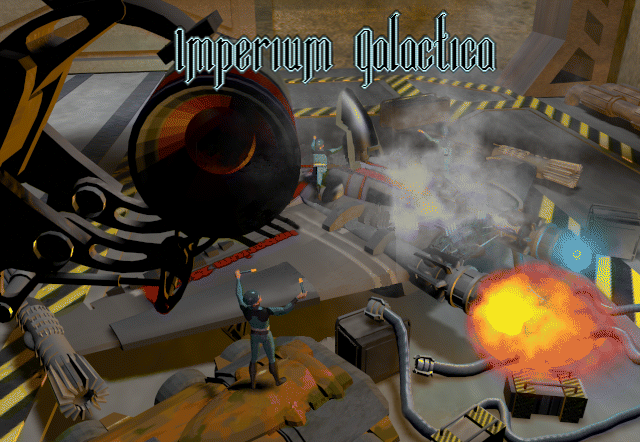
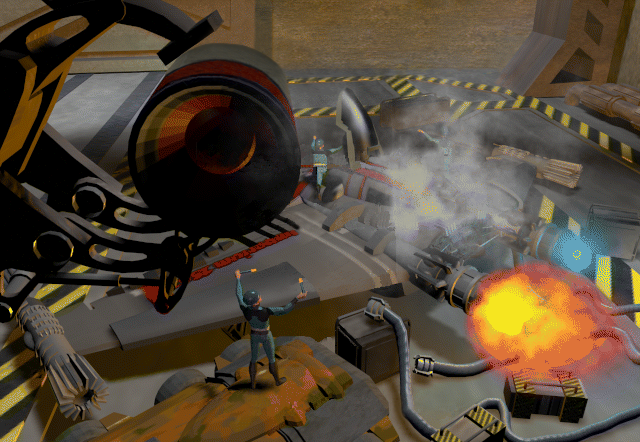
Release 0.94.903

Changed region(s): [[0.25, 0.0, 0.8438, 0.2059]]

diff --git a/trunk/open-ig/src/hu/openig/screen/items/LoadSaveScreen.java b/trunk/open-ig/src/hu/openig/screen/items/LoadSaveScreen.java
@@ -1176,7 +1176,6 @@ public class LoadSaveScreen extends ScreenBase {
 
 	@Override
 	public void onResize() {
-		// XXX
 		scaleResize(base);
 		// tabs
 		
@@ -1324,7 +1323,6 @@ public class LoadSaveScreen extends ScreenBase {
 	@Override
 	public void draw(Graphics2D g2) {
 		RenderTools.darkenAround(base, width, height, g2, 0.5f, true);
-		// XXX
 		AffineTransform save0 = scaleDraw(g2, base);
 		
 		if (settingsMode != SettingsPage.LOAD_SAVE) {
@@ -1397,9 +1395,8 @@ public class LoadSaveScreen extends ScreenBase {
 	}
 	@Override
 	public boolean mouse(UIMouse e) {
-		// XXX
 		scaleMouse(e, base);
-		if (e.has(Type.DOWN) && !e.within(base.x, base.y, base.width, base.height)) {
+		if (e.has(Type.DOWN) && !e.within(base.x, base.y, base.width, base.height) && !confirmText.visible()) {
 			doBack();
 		}
 		return super.mouse(e);
@@ -1483,7 +1480,7 @@ public class LoadSaveScreen extends ScreenBase {
 					newSave.difficulty = world().difficulty;
 					newSave.money = player().money;
 					newSave.gameDate = world().time.getTime();
-					newSave.saveName = "-- New --"; // FIXME labels
+					newSave.saveName = LoadSaveScreen.this.get("settings.new_save"); // FIXME labels
 					
 					flist.add(0, newSave);
 					list.selected = newSave;
@@ -1625,8 +1622,7 @@ public class LoadSaveScreen extends ScreenBase {
 	}
 	/** Go back to main menu. */
 	void doMainMenu() {
-		// FIXME labels
-		showConfirm("Do you really want to quit?", new Action0() {
+		showConfirm(get("settings.confirm_quit"), new Action0() {
 			@Override
 			public void invoke() {
 				commons.control().hideOptions();
@@ -1677,8 +1673,7 @@ public class LoadSaveScreen extends ScreenBase {
 			commons.control().save(saveText, SaveMode.MANUAL);
 			doBack();
 		} else {
-			// FIXME labels
-			showConfirm("Overwrite save?", new Action0() {
+			showConfirm(get("settings.confirm_overwrite"), new Action0() {
 				@Override
 				public void invoke() {
 					fi.file.delete();

diff --git a/trunk/open-ig/src/hu/openig/screen/items/MainScreen.java b/trunk/open-ig/src/hu/openig/screen/items/MainScreen.java
@@ -233,13 +233,14 @@ public class MainScreen extends ScreenBase {
 		}
 
 		g2.drawImage(background, 0, 0, null);
-	
-		int w0 = commons.text().getTextWidth(14, "Open");
-		g2.setColor(new Color(0, 0, 0, 128));
-		g2.fillRect(118, 18, w0 + 4, 20);
-		commons.text().paintTo(g2, 121, 21, 14, 0xFF000000, "Open");
-		commons.text().paintTo(g2, 120, 20, 14, 0xFFFFFF00, "Open");
-		
+
+		RenderTools.setInterpolation(g2, true);
+		BufferedImage tli = commons.background().openigTextLogo;
+		int tliw = tli.getWidth() * 3 / 4;
+		int tlih = tli.getHeight() * 3 / 4;
+		int tlw = (w - tliw) / 2;
+		g2.drawImage(tli, tlw, 8, tliw, tlih, null);
+		RenderTools.setInterpolation(g2, false);
 		
 		int vx = 10;
 		int vy = 428;

diff --git a/trunk/open-ig/src/hu/openig/gfx/BackgroundGFX.java b/trunk/open-ig/src/hu/openig/gfx/BackgroundGFX.java
@@ -35,6 +35,9 @@ public class BackgroundGFX {
 	/** The gameover image. */
 	@Img(name = "gameover")
 	public BufferedImage gameover;
+	/** The Open Imperium Galactica text logo. */
+	@Img(name = "open-ig-textlogo")
+	public BufferedImage openigTextLogo;
 	/**
 	 * Load resources.
 	 * @param rl the resource locator
